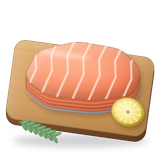
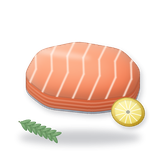
식단 음식 그림: 도마 빼고 돼지 안심 다시 그림
Claude-Session: https://claude.ai/code/session_01AqP1DGazsr53FF5JQFpVrG

Changed region(s): [[0.0312, 0.25, 0.9688, 0.9062]]

diff --git a/404.html b/404.html
@@ -16,7 +16,7 @@
 <link rel="preconnect" href="https://fonts.gstatic.com" crossorigin>
 <link rel="stylesheet" href="https://fonts.googleapis.com/css2?family=Noto+Sans+KR:wght@400;500;700;900&display=swap">
 <script>/* 페이지 넘어갈 때 부드럽게 (2026-11-12) */try{if(localStorage.getItem("ptcoach")||sessionStorage.getItem("ptcoach"))document.documentElement.classList.add("nosp")}catch(e){}addEventListener("pagereveal",function(e){if(!e.viewTransition)return;var d=null;try{d=sessionStorage.getItem("vtdir");sessionStorage.removeItem("vtdir")}catch(x){}var n=window.navigation&&navigation.activation;if(d==="back"||(d!=="fwd"&&n&&n.navigationType==="traverse"))document.documentElement.classList.add("vt-back");e.viewTransition.finished.then(function(){document.documentElement.classList.remove("vt-back")},function(){})});</script>
-<link rel="stylesheet" href="/assets/style.css?v=2611190008">
+<link rel="stylesheet" href="/assets/style.css?v=2611190013">
 <style>
 .nf { margin: 18vh auto 0; max-width: 340px; text-align: center; color: var(--sub); font-size: 14px; line-height: 1.6; }
 .nf b { display: block; color: var(--ink); font-size: 18px; margin-bottom: 6px; }
@@ -36,7 +36,7 @@
 <header class="bar"><div class="bar-in"><a href="#home"><img src="/assets/logo.png" alt="JANG KAREDO"></a><span>PT 노트</span></div></header>
 <main class="wrap"><div class="view" id="view" aria-live="polite"><div class="nf" id="nf"><div class="sp"></div><b>PT 노트 여는 중…</b></div></div></main>
 <nav class="tabs" aria-label="메뉴" id="tabs" hidden><div class="tabs-in"></div></nav>
-<script src="/assets/site.js?v=2611190008"></script>
+<script src="/assets/site.js?v=2611190013"></script>
 <script>
 (function () {
   var mm = location.pathname.match(/^\/m\/([a-z0-9-]{3,40})\/?$/);
@@ -47,7 +47,7 @@
   window.ATT_SLUG = slug;
   var KEY = "pub:m:" + slug + ":member", LS = "ptnote:" + slug + ":member";
   var API = (window.SITE || {}).att_api || "";
-  if (!API) { msg("PT 노트 창고 주소가 아직 없어요", "assets/site.js?v=2611190008 의 att_api 를 채워 주세요."); return; }
+  if (!API) { msg("PT 노트 창고 주소가 아직 없어요", "assets/site.js?v=2611190013 의 att_api 를 채워 주세요."); return; }
   var cached = null, booted = false;
   var cachedStr = null;
   try { cachedStr = localStorage.getItem(LS); cached = JSON.parse(cachedStr || "null"); } catch (e) { cached = null; }
@@ -72,7 +72,7 @@
         M.notices = (d.notices || []).concat(M.notices || []);
       }
       window.MEMBER = M;
-      load("/assets/exicons.js?v=2611190008", function () { load("/assets/app.js?v=2611190008"); });
+      load("/assets/exicons.js?v=2611190013", function () { load("/assets/app.js?v=2611190013"); });
     });
   }
   if (cached && cached.name) boot(cached);

diff --git a/coach-tqqnlh/index.html b/coach-tqqnlh/index.html
@@ -17,8 +17,8 @@
 <link rel="preconnect" href="https://fonts.gstatic.com" crossorigin>
 <link rel="stylesheet" href="https://fonts.googleapis.com/css2?family=Noto+Sans+KR:wght@400;500;700;900&display=swap">
 <script>/* 페이지 넘어갈 때 부드럽게 (2026-11-12) */try{if(localStorage.getItem("ptcoach")||sessionStorage.getItem("ptcoach"))document.documentElement.classList.add("nosp")}catch(e){}addEventListener("pagereveal",function(e){if(!e.viewTransition)return;var d=null;try{d=sessionStorage.getItem("vtdir");sessionStorage.removeItem("vtdir")}catch(x){}var n=window.navigation&&navigation.activation;if(d==="back"||(d!=="fwd"&&n&&n.navigationType==="traverse"))document.documentElement.classList.add("vt-back");e.viewTransition.finished.then(function(){document.documentElement.classList.remove("vt-back")},function(){})});</script>
-<link rel="stylesheet" href="/assets/style.css?v=2611190008">
-<script src="/assets/site.js?v=2611190008"></script>
+<link rel="stylesheet" href="/assets/style.css?v=2611190013">
+<script src="/assets/site.js?v=2611190013"></script>
 <style>
 .wrap { padding-bottom: calc(40px + env(safe-area-inset-bottom, 0px)); }
 .sum { display: grid; grid-template-columns: repeat(3, 1fr); gap: 8px; }
@@ -470,7 +470,7 @@ body.pad #list.mlist { grid-template-columns: repeat(4, minmax(0, 1fr)); }
   </div>
 </aside>
 <script src="members.js"></script>
-<script src="/assets/memo.js?v=2611190008"></script>
+<script src="/assets/memo.js?v=2611190013"></script>
 <script>
 (function () {
   "use strict";
@@ -530,7 +530,7 @@ body.pad #list.mlist { grid-template-columns: repeat(4, minmax(0, 1fr)); }
     for (var i = 0; i < R.days.length; i++) if (R.days[i].day === key) return !!R.days[i].rest;
     return false;
   }
-  /* 회원 메모 (2026-11-12): 카드마다 📝 한 줄(고정 또는 최신 메모) — 누르면 메모 창(assets/memo.js?v=2611190008) */
+  /* 회원 메모 (2026-11-12): 카드마다 📝 한 줄(고정 또는 최신 메모) — 누르면 메모 창(assets/memo.js?v=2611190013) */
   var MEMO = null;
   function memoRow(slug, name) {
     if (!window.PTMemo || !bnKey()) return "";

diff --git a/m/aeran-bsq16i/index.html b/m/aeran-bsq16i/index.html
@@ -24,7 +24,7 @@
 <link rel="preconnect" href="https://fonts.gstatic.com" crossorigin>
 <link rel="stylesheet" href="https://fonts.googleapis.com/css2?family=Noto+Sans+KR:wght@400;500;700;900&display=swap">
 <script>/* 페이지 넘어갈 때 부드럽게 (2026-11-12) */try{if(localStorage.getItem("ptcoach")||sessionStorage.getItem("ptcoach"))document.documentElement.classList.add("nosp")}catch(e){}addEventListener("pagereveal",function(e){if(!e.viewTransition)return;var d=null;try{d=sessionStorage.getItem("vtdir");sessionStorage.removeItem("vtdir")}catch(x){}var n=window.navigation&&navigation.activation;if(d==="back"||(d!=="fwd"&&n&&n.navigationType==="traverse"))document.documentElement.classList.add("vt-back");e.viewTransition.finished.then(function(){document.documentElement.classList.remove("vt-back")},function(){})});</script>
-<link rel="stylesheet" href="../../assets/style.css?v=2611190008">
+<link rel="stylesheet" href="../../assets/style.css?v=2611190013">
 </head>
 <body>
 <svg width="0" height="0" style="position:absolute" aria-hidden="true">
@@ -41,8 +41,8 @@
   <a href="#notice" data-tab="notice"><svg viewBox="0 0 24 24" fill="none" stroke="currentColor" stroke-width="2" stroke-linejoin="round"><path d="M4 10v4h3l6 4V6L7 10z"/><path d="M16.5 9.5a3.5 3.5 0 0 1 0 5M19 7a7 7 0 0 1 0 10" stroke-linecap="round"/></svg>공지</a>
 </div></nav>
 <script src="data.js"></script>
-<script src="../../assets/site.js?v=2611190008"></script>
-<script src="../../assets/exicons.js?v=2611190008"></script>
-<script src="../../assets/app.js?v=2611190008"></script>
+<script src="../../assets/site.js?v=2611190013"></script>
+<script src="../../assets/exicons.js?v=2611190013"></script>
+<script src="../../assets/app.js?v=2611190013"></script>
 </body>
 </html>

diff --git a/m/chanyoung-dvrara/index.html b/m/chanyoung-dvrara/index.html
@@ -24,7 +24,7 @@
 <link rel="preconnect" href="https://fonts.gstatic.com" crossorigin>
 <link rel="stylesheet" href="https://fonts.googleapis.com/css2?family=Noto+Sans+KR:wght@400;500;700;900&display=swap">
 <script>/* 페이지 넘어갈 때 부드럽게 (2026-11-12) */try{if(localStorage.getItem("ptcoach")||sessionStorage.getItem("ptcoach"))document.documentElement.classList.add("nosp")}catch(e){}addEventListener("pagereveal",function(e){if(!e.viewTransition)return;var d=null;try{d=sessionStorage.getItem("vtdir");sessionStorage.removeItem("vtdir")}catch(x){}var n=window.navigation&&navigation.activation;if(d==="back"||(d!=="fwd"&&n&&n.navigationType==="traverse"))document.documentElement.classList.add("vt-back");e.viewTransition.finished.then(function(){document.documentElement.classList.remove("vt-back")},function(){})});</script>
-<link rel="stylesheet" href="../../assets/style.css?v=2611190008">
+<link rel="stylesheet" href="../../assets/style.css?v=2611190013">
 </head>
 <body>
 <svg width="0" height="0" style="position:absolute" aria-hidden="true">
@@ -41,8 +41,8 @@
   <a href="#notice" data-tab="notice"><svg viewBox="0 0 24 24" fill="none" stroke="currentColor" stroke-width="2" stroke-linejoin="round"><path d="M4 10v4h3l6 4V6L7 10z"/><path d="M16.5 9.5a3.5 3.5 0 0 1 0 5M19 7a7 7 0 0 1 0 10" stroke-linecap="round"/></svg>공지</a>
 </div></nav>
 <script src="data.js"></script>
-<script src="../../assets/site.js?v=2611190008"></script>
-<script src="../../assets/exicons.js?v=2611190008"></script>
-<script src="../../assets/app.js?v=2611190008"></script>
+<script src="../../assets/site.js?v=2611190013"></script>
+<script src="../../assets/exicons.js?v=2611190013"></script>
+<script src="../../assets/app.js?v=2611190013"></script>
 </body>
 </html>

diff --git a/m/hyeyoung-d74063/index.html b/m/hyeyoung-d74063/index.html
@@ -24,7 +24,7 @@
 <link rel="preconnect" href="https://fonts.gstatic.com" crossorigin>
 <link rel="stylesheet" href="https://fonts.googleapis.com/css2?family=Noto+Sans+KR:wght@400;500;700;900&display=swap">
 <script>/* 페이지 넘어갈 때 부드럽게 (2026-11-12) */try{if(localStorage.getItem("ptcoach")||sessionStorage.getItem("ptcoach"))document.documentElement.classList.add("nosp")}catch(e){}addEventListener("pagereveal",function(e){if(!e.viewTransition)return;var d=null;try{d=sessionStorage.getItem("vtdir");sessionStorage.removeItem("vtdir")}catch(x){}var n=window.navigation&&navigation.activation;if(d==="back"||(d!=="fwd"&&n&&n.navigationType==="traverse"))document.documentElement.classList.add("vt-back");e.viewTransition.finished.then(function(){document.documentElement.classList.remove("vt-back")},function(){})});</script>
-<link rel="stylesheet" href="../../assets/style.css?v=2611190008">
+<link rel="stylesheet" href="../../assets/style.css?v=2611190013">
 </head>
 <body>
 <svg width="0" height="0" style="position:absolute" aria-hidden="true">
@@ -41,8 +41,8 @@
   <a href="#notice" data-tab="notice"><svg viewBox="0 0 24 24" fill="none" stroke="currentColor" stroke-width="2" stroke-linejoin="round"><path d="M4 10v4h3l6 4V6L7 10z"/><path d="M16.5 9.5a3.5 3.5 0 0 1 0 5M19 7a7 7 0 0 1 0 10" stroke-linecap="round"/></svg>공지</a>
 </div></nav>
 <script src="data.js"></script>
-<script src="../../assets/site.js?v=2611190008"></script>
-<script src="../../assets/exicons.js?v=2611190008"></script>
-<script src="../../assets/app.js?v=2611190008"></script>
+<script src="../../assets/site.js?v=2611190013"></script>
+<script src="../../assets/exicons.js?v=2611190013"></script>
+<script src="../../assets/app.js?v=2611190013"></script>
 </body>
 </html>

diff --git a/m/inseok-02j3ia/index.html b/m/inseok-02j3ia/index.html
@@ -24,7 +24,7 @@
 <link rel="preconnect" href="https://fonts.gstatic.com" crossorigin>
 <link rel="stylesheet" href="https://fonts.googleapis.com/css2?family=Noto+Sans+KR:wght@400;500;700;900&display=swap">
 <script>/* 페이지 넘어갈 때 부드럽게 (2026-11-12) */try{if(localStorage.getItem("ptcoach")||sessionStorage.getItem("ptcoach"))document.documentElement.classList.add("nosp")}catch(e){}addEventListener("pagereveal",function(e){if(!e.viewTransition)return;var d=null;try{d=sessionStorage.getItem("vtdir");sessionStorage.removeItem("vtdir")}catch(x){}var n=window.navigation&&navigation.activation;if(d==="back"||(d!=="fwd"&&n&&n.navigationType==="traverse"))document.documentElement.classList.add("vt-back");e.viewTransition.finished.then(function(){document.documentElement.classList.remove("vt-back")},function(){})});</script>
-<link rel="stylesheet" href="../../assets/style.css?v=2611190008">
+<link rel="stylesheet" href="../../assets/style.css?v=2611190013">
 </head>
 <body>
 <svg width="0" height="0" style="position:absolute" aria-hidden="true">
@@ -41,8 +41,8 @@
   <a href="#notice" data-tab="notice"><svg viewBox="0 0 24 24" fill="none" stroke="currentColor" stroke-width="2" stroke-linejoin="round"><path d="M4 10v4h3l6 4V6L7 10z"/><path d="M16.5 9.5a3.5 3.5 0 0 1 0 5M19 7a7 7 0 0 1 0 10" stroke-linecap="round"/></svg>공지</a>
 </div></nav>
 <script src="data.js"></script>
-<script src="../../assets/site.js?v=2611190008"></script>
-<script src="../../assets/exicons.js?v=2611190008"></script>
-<script src="../../assets/app.js?v=2611190008"></script>
+<script src="../../assets/site.js?v=2611190013"></script>
+<script src="../../assets/exicons.js?v=2611190013"></script>
+<script src="../../assets/app.js?v=2611190013"></script>
 </body>
 </html>

diff --git a/m/jihun-g9kgdo/index.html b/m/jihun-g9kgdo/index.html
@@ -24,7 +24,7 @@
 <link rel="preconnect" href="https://fonts.gstatic.com" crossorigin>
 <link rel="stylesheet" href="https://fonts.googleapis.com/css2?family=Noto+Sans+KR:wght@400;500;700;900&display=swap">
 <script>/* 페이지 넘어갈 때 부드럽게 (2026-11-12) */try{if(localStorage.getItem("ptcoach")||sessionStorage.getItem("ptcoach"))document.documentElement.classList.add("nosp")}catch(e){}addEventListener("pagereveal",function(e){if(!e.viewTransition)return;var d=null;try{d=sessionStorage.getItem("vtdir");sessionStorage.removeItem("vtdir")}catch(x){}var n=window.navigation&&navigation.activation;if(d==="back"||(d!=="fwd"&&n&&n.navigationType==="traverse"))document.documentElement.classList.add("vt-back");e.viewTransition.finished.then(function(){document.documentElement.classList.remove("vt-back")},function(){})});</script>
-<link rel="stylesheet" href="../../assets/style.css?v=2611190008">
+<link rel="stylesheet" href="../../assets/style.css?v=2611190013">
 </head>
 <body>
 <svg width="0" height="0" style="position:absolute" aria-hidden="true">
@@ -41,8 +41,8 @@
   <a href="#notice" data-tab="notice"><svg viewBox="0 0 24 24" fill="none" stroke="currentColor" stroke-width="2" stroke-linejoin="round"><path d="M4 10v4h3l6 4V6L7 10z"/><path d="M16.5 9.5a3.5 3.5 0 0 1 0 5M19 7a7 7 0 0 1 0 10" stroke-linecap="round"/></svg>공지</a>
 </div></nav>
 <script src="data.js"></script>
-<script src="../../assets/site.js?v=2611190008"></script>
-<script src="../../assets/exicons.js?v=2611190008"></script>
-<script src="../../assets/app.js?v=2611190008"></script>
+<script src="../../assets/site.js?v=2611190013"></script>
+<script src="../../assets/exicons.js?v=2611190013"></script>
+<script src="../../assets/app.js?v=2611190013"></script>
 </body>
 </html>

diff --git a/m/jihwan-t7m4qe/index.html b/m/jihwan-t7m4qe/index.html
@@ -24,7 +24,7 @@
 <link rel="preconnect" href="https://fonts.gstatic.com" crossorigin>
 <link rel="stylesheet" href="https://fonts.googleapis.com/css2?family=Noto+Sans+KR:wght@400;500;700;900&display=swap">
 <script>/* 페이지 넘어갈 때 부드럽게 (2026-11-12) */try{if(localStorage.getItem("ptcoach")||sessionStorage.getItem("ptcoach"))document.documentElement.classList.add("nosp")}catch(e){}addEventListener("pagereveal",function(e){if(!e.viewTransition)return;var d=null;try{d=sessionStorage.getItem("vtdir");sessionStorage.removeItem("vtdir")}catch(x){}var n=window.navigation&&navigation.activation;if(d==="back"||(d!=="fwd"&&n&&n.navigationType==="traverse"))document.documentElement.classList.add("vt-back");e.viewTransition.finished.then(function(){document.documentElement.classList.remove("vt-back")},function(){})});</script>
-<link rel="stylesheet" href="../../assets/style.css?v=2611190008">
+<link rel="stylesheet" href="../../assets/style.css?v=2611190013">
 </head>
 <body>
 <svg width="0" height="0" style="position:absolute" aria-hidden="true">
@@ -41,8 +41,8 @@
   <a href="#notice" data-tab="notice"><svg viewBox="0 0 24 24" fill="none" stroke="currentColor" stroke-width="2" stroke-linejoin="round"><path d="M4 10v4h3l6 4V6L7 10z"/><path d="M16.5 9.5a3.5 3.5 0 0 1 0 5M19 7a7 7 0 0 1 0 10" stroke-linecap="round"/></svg>공지</a>
 </div></nav>
 <script src="data.js"></script>
-<script src="../../assets/site.js?v=2611190008"></script>
-<script src="../../assets/exicons.js?v=2611190008"></script>
-<script src="../../assets/app.js?v=2611190008"></script>
+<script src="../../assets/site.js?v=2611190013"></script>
+<script src="../../assets/exicons.js?v=2611190013"></script>
+<script src="../../assets/app.js?v=2611190013"></script>
 </body>
 </html>

diff --git a/m/jinyoung-n73rzx/index.html b/m/jinyoung-n73rzx/index.html
@@ -24,7 +24,7 @@
 <link rel="preconnect" href="https://fonts.gstatic.com" crossorigin>
 <link rel="stylesheet" href="https://fonts.googleapis.com/css2?family=Noto+Sans+KR:wght@400;500;700;900&display=swap">
 <script>/* 페이지 넘어갈 때 부드럽게 (2026-11-12) */try{if(localStorage.getItem("ptcoach")||sessionStorage.getItem("ptcoach"))document.documentElement.classList.add("nosp")}catch(e){}addEventListener("pagereveal",function(e){if(!e.viewTransition)return;var d=null;try{d=sessionStorage.getItem("vtdir");sessionStorage.removeItem("vtdir")}catch(x){}var n=window.navigation&&navigation.activation;if(d==="back"||(d!=="fwd"&&n&&n.navigationType==="traverse"))document.documentElement.classList.add("vt-back");e.viewTransition.finished.then(function(){document.documentElement.classList.remove("vt-back")},function(){})});</script>
-<link rel="stylesheet" href="../../assets/style.css?v=2611190008">
+<link rel="stylesheet" href="../../assets/style.css?v=2611190013">
 </head>
 <body>
 <svg width="0" height="0" style="position:absolute" aria-hidden="true">
@@ -41,8 +41,8 @@
   <a href="#notice" data-tab="notice"><svg viewBox="0 0 24 24" fill="none" stroke="currentColor" stroke-width="2" stroke-linejoin="round"><path d="M4 10v4h3l6 4V6L7 10z"/><path d="M16.5 9.5a3.5 3.5 0 0 1 0 5M19 7a7 7 0 0 1 0 10" stroke-linecap="round"/></svg>공지</a>
 </div></nav>
 <script src="data.js"></script>
-<script src="../../assets/site.js?v=2611190008"></script>
-<script src="../../assets/exicons.js?v=2611190008"></script>
-<script src="../../assets/app.js?v=2611190008"></script>
+<script src="../../assets/site.js?v=2611190013"></script>
+<script src="../../assets/exicons.js?v=2611190013"></script>
+<script src="../../assets/app.js?v=2611190013"></script>
 </body>
 </html>

diff --git a/m/jisu-480xne/index.html b/m/jisu-480xne/index.html
@@ -24,7 +24,7 @@
 <link rel="preconnect" href="https://fonts.gstatic.com" crossorigin>
 <link rel="stylesheet" href="https://fonts.googleapis.com/css2?family=Noto+Sans+KR:wght@400;500;700;900&display=swap">
 <script>/* 페이지 넘어갈 때 부드럽게 (2026-11-12) */try{if(localStorage.getItem("ptcoach")||sessionStorage.getItem("ptcoach"))document.documentElement.classList.add("nosp")}catch(e){}addEventListener("pagereveal",function(e){if(!e.viewTransition)return;var d=null;try{d=sessionStorage.getItem("vtdir");sessionStorage.removeItem("vtdir")}catch(x){}var n=window.navigation&&navigation.activation;if(d==="back"||(d!=="fwd"&&n&&n.navigationType==="traverse"))document.documentElement.classList.add("vt-back");e.viewTransition.finished.then(function(){document.documentElement.classList.remove("vt-back")},function(){})});</script>
-<link rel="stylesheet" href="../../assets/style.css?v=2611190008">
+<link rel="stylesheet" href="../../assets/style.css?v=2611190013">
 </head>
 <body>
 <svg width="0" height="0" style="position:absolute" aria-hidden="true">
@@ -41,8 +41,8 @@
   <a href="#notice" data-tab="notice"><svg viewBox="0 0 24 24" fill="none" stroke="currentColor" stroke-width="2" stroke-linejoin="round"><path d="M4 10v4h3l6 4V6L7 10z"/><path d="M16.5 9.5a3.5 3.5 0 0 1 0 5M19 7a7 7 0 0 1 0 10" stroke-linecap="round"/></svg>공지</a>
 </div></nav>
 <script src="data.js"></script>
-<script src="../../assets/site.js?v=2611190008"></script>
-<script src="../../assets/exicons.js?v=2611190008"></script>
-<script src="../../assets/app.js?v=2611190008"></script>
+<script src="../../assets/site.js?v=2611190013"></script>
+<script src="../../assets/exicons.js?v=2611190013"></script>
+<script src="../../assets/app.js?v=2611190013"></script>
 </body>
 </html>

diff --git a/m/kyeongjin-bkwzy9/index.html b/m/kyeongjin-bkwzy9/index.html
@@ -24,7 +24,7 @@
 <link rel="preconnect" href="https://fonts.gstatic.com" crossorigin>
 <link rel="stylesheet" href="https://fonts.googleapis.com/css2?family=Noto+Sans+KR:wght@400;500;700;900&display=swap">
 <script>/* 페이지 넘어갈 때 부드럽게 (2026-11-12) */try{if(localStorage.getItem("ptcoach")||sessionStorage.getItem("ptcoach"))document.documentElement.classList.add("nosp")}catch(e){}addEventListener("pagereveal",function(e){if(!e.viewTransition)return;var d=null;try{d=sessionStorage.getItem("vtdir");sessionStorage.removeItem("vtdir")}catch(x){}var n=window.navigation&&navigation.activation;if(d==="back"||(d!=="fwd"&&n&&n.navigationType==="traverse"))document.documentElement.classList.add("vt-back");e.viewTransition.finished.then(function(){document.documentElement.classList.remove("vt-back")},function(){})});</script>
-<link rel="stylesheet" href="../../assets/style.css?v=2611190008">
+<link rel="stylesheet" href="../../assets/style.css?v=2611190013">
 </head>
 <body>
 <svg width="0" height="0" style="position:absolute" aria-hidden="true">
@@ -41,8 +41,8 @@
   <a href="#notice" data-tab="notice"><svg viewBox="0 0 24 24" fill="none" stroke="currentColor" stroke-width="2" stroke-linejoin="round"><path d="M4 10v4h3l6 4V6L7 10z"/><path d="M16.5 9.5a3.5 3.5 0 0 1 0 5M19 7a7 7 0 0 1 0 10" stroke-linecap="round"/></svg>공지</a>
 </div></nav>
 <script src="data.js"></script>
-<script src="../../assets/site.js?v=2611190008"></script>
-<script src="../../assets/exicons.js?v=2611190008"></script>
-<script src="../../assets/app.js?v=2611190008"></script>
+<script src="../../assets/site.js?v=2611190013"></script>
+<script src="../../assets/exicons.js?v=2611190013"></script>
+<script src="../../assets/app.js?v=2611190013"></script>
 </body>
 </html>

diff --git a/m/mikyung-7rq2vd/index.html b/m/mikyung-7rq2vd/index.html
@@ -24,7 +24,7 @@
 <link rel="preconnect" href="https://fonts.gstatic.com" crossorigin>
 <link rel="stylesheet" href="https://fonts.googleapis.com/css2?family=Noto+Sans+KR:wght@400;500;700;900&display=swap">
 <script>/* 페이지 넘어갈 때 부드럽게 (2026-11-12) */try{if(localStorage.getItem("ptcoach")||sessionStorage.getItem("ptcoach"))document.documentElement.classList.add("nosp")}catch(e){}addEventListener("pagereveal",function(e){if(!e.viewTransition)return;var d=null;try{d=sessionStorage.getItem("vtdir");sessionStorage.removeItem("vtdir")}catch(x){}var n=window.navigation&&navigation.activation;if(d==="back"||(d!=="fwd"&&n&&n.navigationType==="traverse"))document.documentElement.classList.add("vt-back");e.viewTransition.finished.then(function(){document.documentElement.classList.remove("vt-back")},function(){})});</script>
-<link rel="stylesheet" href="../../assets/style.css?v=2611190008">
+<link rel="stylesheet" href="../../assets/style.css?v=2611190013">
 </head>
 <body>
 <svg width="0" height="0" style="position:absolute" aria-hidden="true">
@@ -41,8 +41,8 @@
   <a href="#notice" data-tab="notice"><svg viewBox="0 0 24 24" fill="none" stroke="currentColor" stroke-width="2" stroke-linejoin="round"><path d="M4 10v4h3l6 4V6L7 10z"/><path d="M16.5 9.5a3.5 3.5 0 0 1 0 5M19 7a7 7 0 0 1 0 10" stroke-linecap="round"/></svg>공지</a>
 </div></nav>
 <script src="data.js"></script>
-<script src="../../assets/site.js?v=2611190008"></script>
-<script src="../../assets/exicons.js?v=2611190008"></script>
-<script src="../../assets/app.js?v=2611190008"></script>
+<script src="../../assets/site.js?v=2611190013"></script>
+<script src="../../assets/exicons.js?v=2611190013"></script>
+<script src="../../assets/app.js?v=2611190013"></script>
 </body>
 </html>
